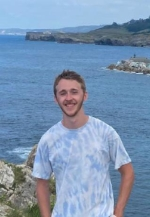
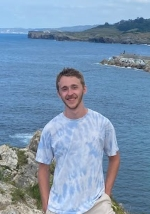
Fix test style and img

diff --git a/layouts/_default/about.html b/layouts/_default/about.html
@@ -6,8 +6,8 @@
   </header>
 
   <div class="post-content">
-    <div>
-    <img src="/me.jpg" alt="A picture of me" style="float: right; margin-left: 10px; margin-top: 0px;"/>
+    <div class="about-intro">
+    <img src="/me.jpg" alt="A picture of me"/>
     <p>
     I'm Mario. I love building new things, especially if they're open source!
     Currently, I work for Lyft as a backend engineer within the routing infra

diff --git a/assets/css/extended/about.css b/assets/css/extended/about.css
@@ -1,5 +1,14 @@
 /* Custom CSS for the "About" page */
 
+.about-intro {
+  margin-bottom: 15px;
+}
+
+.about-intro img {
+  float: right;
+  margin: 0px 0px 0px 15px;
+}
+
 .projects {
   display: flex;
   width: 100%;

diff --git a/assets/css/extended/global.css b/assets/css/extended/global.css
@@ -2,6 +2,8 @@
 
 body {
   font-family: "Merriweather", serif;
+  text-align: justify;
+  hyphens: auto;
 }
 
 /* Fix selection colors for dark mode */
